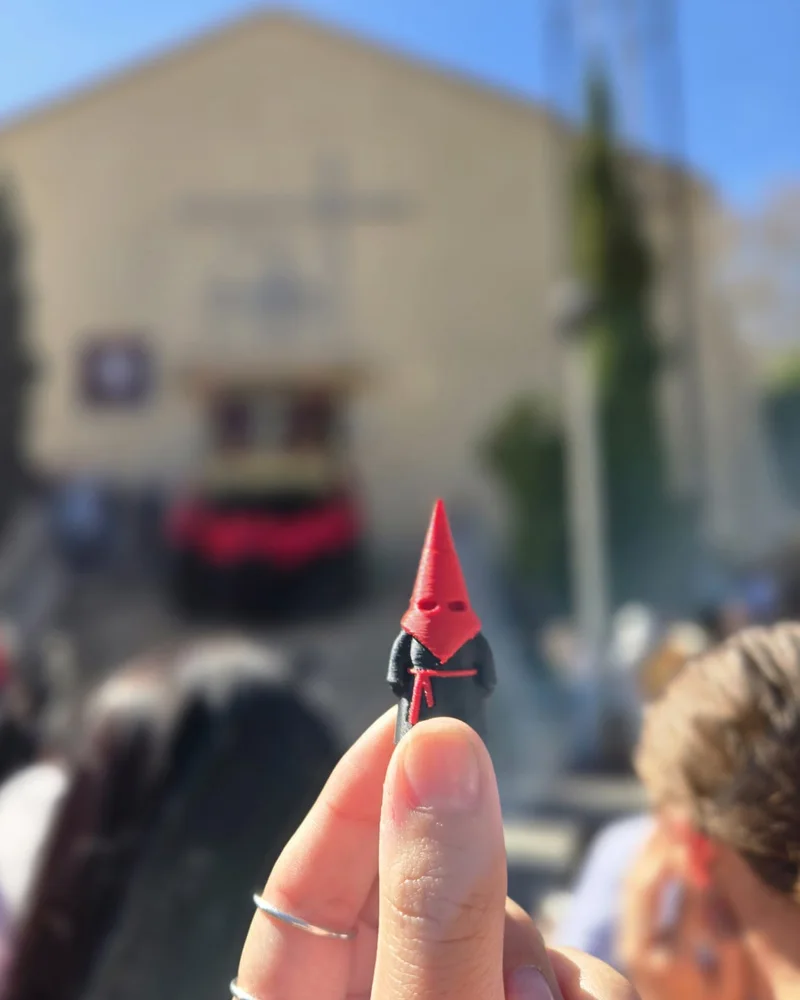
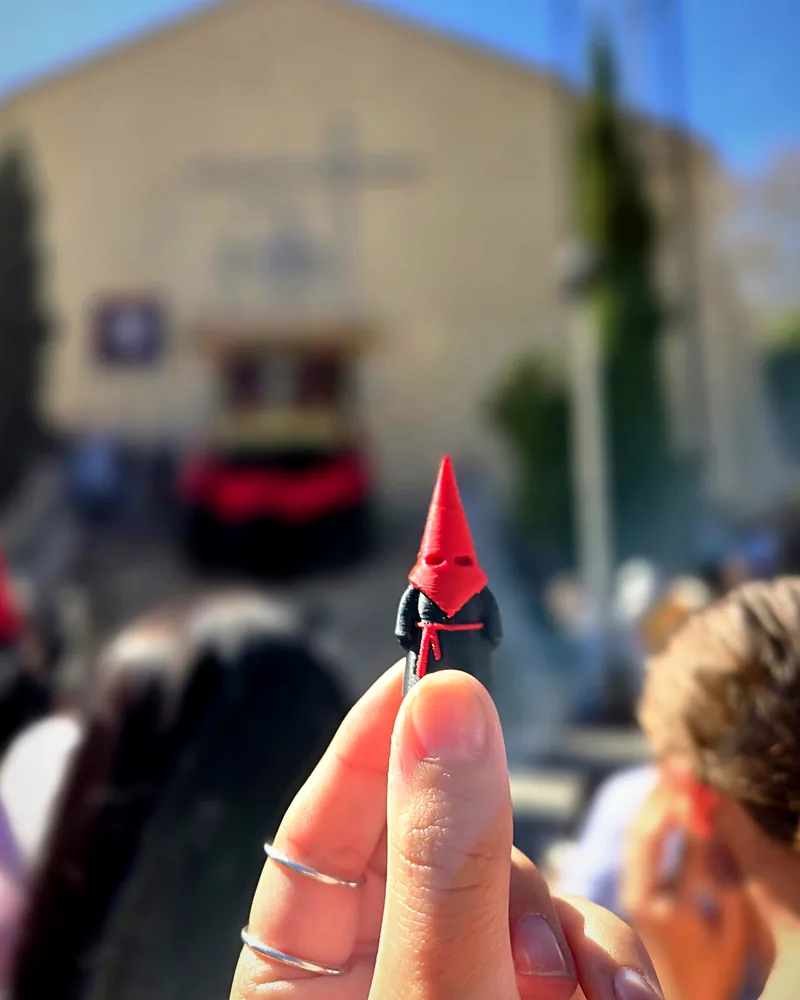
feat(semana-santa): cíngulo opcional, uniones limpias y galería de fotos
- Máscaras rehechas como partición sin huecos: sin bordes blancos al cambiar
  colores, contorno suavizado y punta del capirote recta.
- Opción "Sin cíngulo" con base y brillo retocados sin el cinturón.
- Galería "Así quedan impresos" con las fotos reales reeditadas y en varios
  colores de cofradía.

diff --git a/app/(site)/servicios/semana-santa/ColorPicker.tsx b/app/(site)/servicios/semana-santa/ColorPicker.tsx
@@ -68,32 +68,37 @@ export function ColorPicker({
   const [sel, setSel] = useState<Record<Parte, string>>(presets[0]);
   // stock colours stay folded so a first look is just the usual cofradía set
   const [abiertas, setAbiertas] = useState<Partial<Record<Parte, boolean>>>({});
-  const resumen = `capirote ${sel.capirote}, cíngulo ${sel.cingulo} y túnica ${sel.tunica}`;
+  // without cíngulo the tunic covers its area and the photo layers drop the belt's relief
+  const [conCingulo, setConCingulo] = useState(true);
+  const sin = conCingulo ? '' : '-sin-cingulo';
+  const resumen = conCingulo
+    ? `capirote ${sel.capirote}, cíngulo ${sel.cingulo} y túnica ${sel.tunica}`
+    : `capirote ${sel.capirote} y túnica ${sel.tunica}, sin cíngulo`;
   const wa = whatsappUrl(`Hola, os escribo desde la web. Quería un mini nazareno con ${resumen}.`);
 
   return (
     <div className="ss-picker">
       <div className="ss-picker-stage" role="img" aria-label={`Mini nazareno con ${resumen}`}>
-        <img src={`${IMG}nazareno-base.webp`} alt="" width={800} height={1000} />
+        <img src={`${IMG}nazareno-base${sin}.webp`} alt="" width={800} height={1000} />
         {PARTES.map((p) => (
           <div
             key={p.id}
             className="ss-layer"
             style={{
-              background: hexDe(sel[p.id]),
+              background: hexDe(p.id === 'cingulo' && !conCingulo ? sel.tunica : sel[p.id]),
               maskImage: `url(${IMG}mascara-${p.id}.png)`,
               WebkitMaskImage: `url(${IMG}mascara-${p.id}.png)`
             }}
           />
         ))}
         {/* untinted glints, then the background with a soft hole so edges blend exactly */}
-        <img src={`${IMG}nazareno-brillo.webp`} alt="" width={800} height={1000} className="ss-brillo" />
+        <img src={`${IMG}nazareno-brillo${sin}.webp`} alt="" width={800} height={1000} className="ss-brillo" />
         <img src={`${IMG}nazareno-fondo.webp`} alt="" width={800} height={1000} />
       </div>
 
       <div className="ss-picker-side">
         <p className="ss-picker-label" aria-live="polite">
-          {sel.capirote} · {sel.cingulo} · {sel.tunica}
+          {conCingulo ? `${sel.capirote} · ${sel.cingulo} · ${sel.tunica}` : `${sel.capirote} · ${sel.tunica}`}
         </p>
 
         {PARTES.map((p) => (
@@ -116,14 +121,27 @@ export function ColorPicker({
                       <button
                         key={c.nombre}
                         type="button"
-                        aria-pressed={sel[p.id] === c.nombre}
+                        aria-pressed={sel[p.id] === c.nombre && (p.id !== 'cingulo' || conCingulo)}
                         aria-label={`${p.label} ${c.nombre}`}
                         title={c.nombre}
                         className={g && !i ? 'ss-swatch ss-swatch-muestrario' : 'ss-swatch'}
                         style={{ background: c.hex }}
-                        onClick={() => setSel({ ...sel, [p.id]: c.nombre })}
+                        onClick={() => {
+                          setSel({ ...sel, [p.id]: c.nombre });
+                          if (p.id === 'cingulo') setConCingulo(true);
+                        }}
                       />
                     ))
+              )}
+              {p.id === 'cingulo' && (
+                <button
+                  type="button"
+                  className="ss-mas"
+                  aria-pressed={!conCingulo}
+                  onClick={() => setConCingulo(false)}
+                >
+                  Sin cíngulo
+                </button>
               )}
             </div>
           </fieldset>
@@ -140,8 +158,11 @@ export function ColorPicker({
               key={p.file}
               type="button"
               className="ss-preset"
-              aria-pressed={p.capirote === sel.capirote && p.cingulo === sel.cingulo && p.tunica === sel.tunica}
-              onClick={() => setSel(p)}
+              aria-pressed={conCingulo && p.capirote === sel.capirote && p.cingulo === sel.cingulo && p.tunica === sel.tunica}
+              onClick={() => {
+                setSel(p);
+                setConCingulo(true);
+              }}
             >
               <img src={`${IMG}${p.file}.webp`} alt={p.alt} width={400} height={500} loading="lazy" decoding="async" />
             </button>

diff --git a/app/(site)/servicios/semana-santa/page.tsx b/app/(site)/servicios/semana-santa/page.tsx
@@ -37,6 +37,14 @@ const PRESETS: Combinacion[] = [
   { file: 'nazareno-granate-crema', capirote: 'granate', cingulo: 'granate', tunica: 'crema', alt: 'Mini nazareno con capirote granate y túnica crema' }
 ];
 
+// real photos of printed ones: examples of each format, and a bit of decoration under the picker
+const FOTOS = [
+  { file: 'mini-nazareno-figura', pie: 'Figura de pie', alt: 'Mini nazareno impreso en 3D con capirote morado y túnica negra sobre la mesa' },
+  { file: 'mini-nazareno-capuchon-lapiz', pie: 'Capuchón de lápiz', alt: 'Capuchón de lápiz con forma de nazareno verde y negro' },
+  { file: 'mini-nazarenos-lote-hermandad', pie: 'Lote para hermandad', alt: 'Lote de mini nazarenos impresos en 3D con capirotes de muchos colores' },
+  { file: 'mini-nazareno-procesion-salamanca', pie: 'En la procesión', alt: 'Mini nazareno en la mano durante una procesión de Semana Santa en Salamanca' }
+];
+
 const FAQ = [
   { q: '¿Podéis hacer el nazareno con los colores de mi hermandad?', a: 'Sí. Elige arriba los colores del capirote, el cíngulo y la túnica, o mándame una foto del hábito por WhatsApp, y lo imprimo con esa combinación.' },
   { q: '¿Qué formatos hay?', a: 'Es el mismo mini nazareno en cuatro versiones: figura de pie, capuchón para lápiz, capuchón para boli y pin de solapa con aguja detrás.' },
@@ -66,8 +74,7 @@ const jsonLd = [
     image: [
       siteUrl(`${IMG}nazareno-rojo-negro-grande.webp`),
       siteUrl(`${IMG}nazareno-morado-blanco-grande.webp`),
-      siteUrl(`${IMG}mini-nazareno-procesion-salamanca.webp`),
-      siteUrl(`${IMG}mini-nazareno-capuchon-lapiz.webp`)
+      ...FOTOS.map((f) => siteUrl(`${IMG}${f.file}.webp`))
     ],
     provider: { '@id': siteUrl('/#business') },
     areaServed: [
@@ -123,6 +130,18 @@ export default async function SemanaSantaPage() {
           <p className="ss-picker-note">
             Los colores de la pantalla son orientativos. Antes de imprimir te mando una foto real.
           </p>
+
+          <section className="ss-galeria" aria-labelledby="ss-galeria-titulo">
+            <p id="ss-galeria-titulo" className="ss-row-title">Así quedan impresos</p>
+            <div className="ss-fotos">
+              {FOTOS.map((f) => (
+                <figure key={f.file} className="ss-foto">
+                  <img src={`${IMG}${f.file}.webp`} alt={f.alt} width={800} height={1000} loading="lazy" decoding="async" />
+                  <figcaption>{f.pie}</figcaption>
+                </figure>
+              ))}
+            </div>
+          </section>
 
           {/* SEO copy, folded: indexed by Google but out of the way of the picker */}
           <details className="ss-info">

diff --git a/app/(site)/servicios/semana-santa/semana-santa.css b/app/(site)/servicios/semana-santa/semana-santa.css
@@ -44,6 +44,7 @@
     background: none; color: var(--text); font-size: 13px; white-space: nowrap; flex: 0 0 auto;
 }
 .ss-mas:hover { border-color: var(--accent); color: var(--accent); }
+.ss-mas[aria-pressed='true'] { border-style: solid; border-color: var(--accent); color: var(--accent); }
 .ss-swatch[aria-pressed='true'], .ss-swatch:focus-visible { outline-color: var(--accent); }
 .ss-picker-cta { margin: 28px 0 36px; }
 .ss-presets { display: grid; grid-template-columns: repeat(4, 1fr); gap: 10px; max-width: 440px; }
@@ -52,6 +53,23 @@
 .ss-preset[aria-pressed='true'], .ss-preset:focus-visible { border-color: var(--accent); outline: none; }
 .ss-preset img { display: block; width: 100%; height: auto; }
 .ss-picker-note { font-size: 14px; color: var(--muted); line-height: 1.7; margin-top: 32px; max-width: 640px; }
+
+/* real photos: slightly tilted prints, straightened on hover */
+.ss-galeria { margin-top: 56px; }
+.ss-fotos { display: grid; grid-template-columns: repeat(4, 1fr); gap: 24px; max-width: 980px; }
+.ss-foto {
+    margin: 0; padding: 8px 8px 0; background: var(--surface); border: 1px solid var(--border);
+    border-radius: 6px; box-shadow: 0 10px 24px rgba(0, 0, 0, 0.12);
+    transform: rotate(-2deg); transition: transform 0.2s;
+}
+.ss-foto:nth-child(even) { transform: rotate(1.5deg) translateY(10px); }
+.ss-foto:hover { transform: rotate(0) translateY(-4px); }
+.ss-foto img { display: block; width: 100%; height: auto; border-radius: 3px; }
+.ss-foto figcaption {
+    font-family: var(--font-mono), monospace; font-size: 11px; letter-spacing: 0.12em;
+    text-transform: uppercase; color: var(--muted); text-align: center; padding: 10px 0 12px;
+}
+@media (prefers-reduced-motion: reduce) { .ss-foto { transition: none; } }
 
 /* folded SEO copy: one quiet line until opened */
 .ss-info { margin-top: 56px; padding-top: 20px; border-top: 1px solid var(--border); max-width: 820px; }
@@ -79,4 +97,6 @@
     .ss-swatches::-webkit-scrollbar { display: none; }
     .ss-swatch { flex: 0 0 auto; }
     .ss-picker-cta { width: 100%; justify-content: center; }
+    .ss-galeria { margin-top: 40px; }
+    .ss-fotos { grid-template-columns: repeat(2, 1fr); gap: 16px; }
 }
